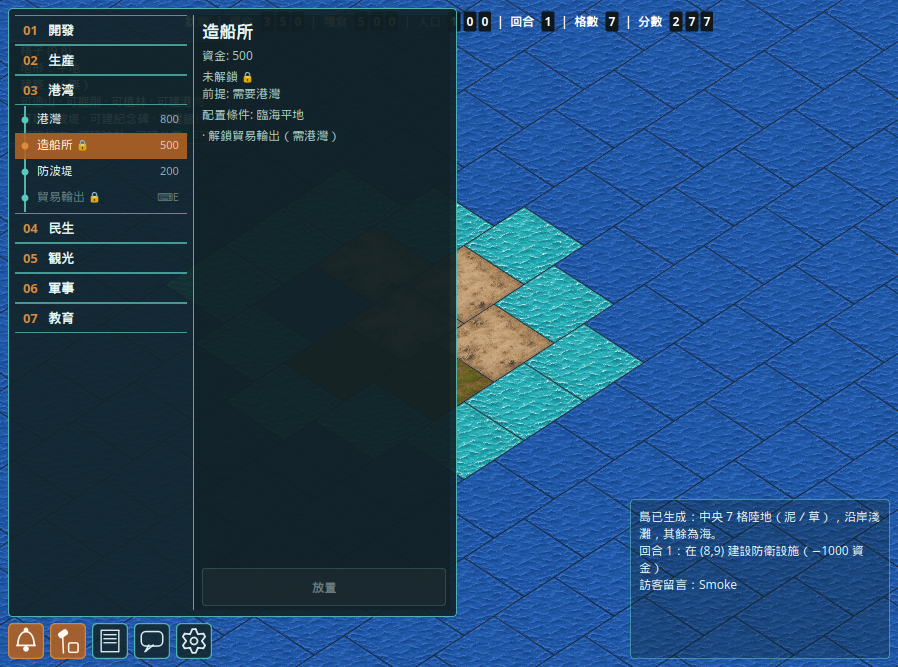
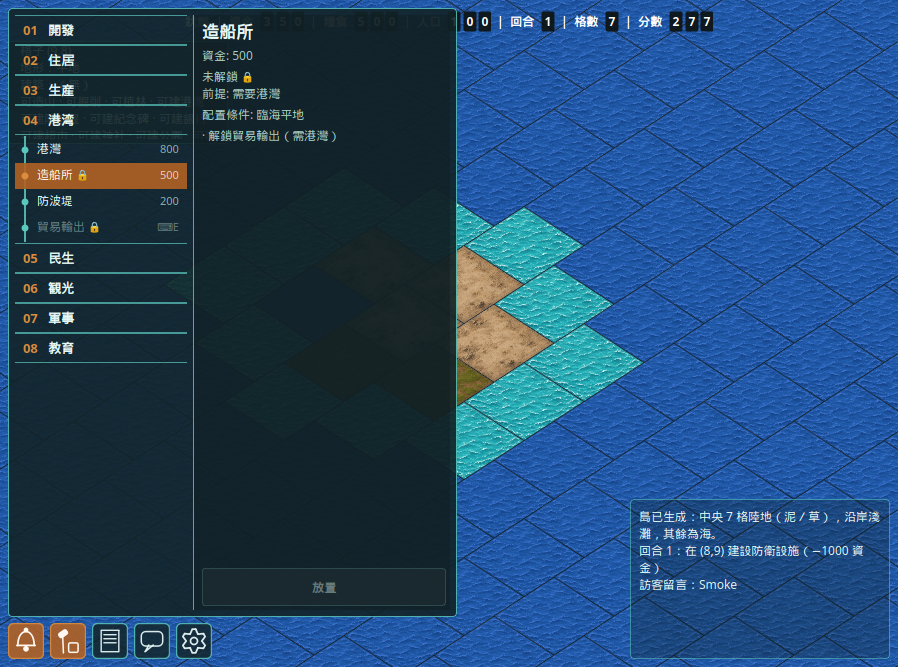
Keep save version 17 for both island migrations.
Village, town, and city stay buildings, and 溫泉村 stays a locked row in the housing catalog. Loading still rewrites old settlement terrain and fills player_name and created_at.

Changed region(s): [[0.0, 0.06, 0.2183, 0.3898], [0.0312, 0.4198, 0.0935, 0.5397]]

diff --git a/hakoniwa/build_tree.py b/hakoniwa/build_tree.py
@@ -28,6 +28,10 @@ try:
     from .model import SETTLEMENT_BUILDINGS  # type: ignore
 except ImportError:  # pragma: no cover — older tip keeps settlements as terrain
     SETTLEMENT_BUILDINGS = frozenset()  # type: ignore
+try:
+    from .model import HARD_LOCKED_BUILDINGS  # type: ignore
+except ImportError:  # pragma: no cover
+    HARD_LOCKED_BUILDINGS = frozenset()  # type: ignore
 
 # Action keys hard-locked until a facility exists (already in game rules).
 ACTION_UNLOCK_PREREQS: Dict[str, Tuple[str, str]] = {
@@ -64,6 +68,7 @@ PLACEMENT_BLURBS: Dict[str, str] = {
     "research_lab": "平地",
     "amusement_park": "平地",
     "power_plant": "平地",
+    "onsen_village": "溫泉山旁的空平地（自然出現）",
 }
 
 # One-line effect blurbs for the detail pane.
@@ -110,6 +115,7 @@ EFFECT_BLURBS: Dict[str, Tuple[str, ...]] = {
     "village": ("住居建築；人口自然演進（非點選建造）",),
     "town": ("住居建築；人口自然演進（非點選建造）",),
     "city": ("住居建築；人口自然演進（非點選建造）",),
+    "onsen_village": ("溫泉山旁的平地自然出現（與村同族，不可直接建設）",),
 }
 
 
@@ -189,9 +195,14 @@ def build_tree_categories() -> Tuple[Tuple[str, Tuple[str, ...]], ...]:
     """Categories for the drawer tree (includes 住居 when applicable)."""
     cats: List[Tuple[str, Tuple[str, ...]]] = list(_BASE_CATEGORIES)
     settlements = settlement_keys_for_tree()
-    if settlements:
+    extra: List[str] = []
+    # 溫泉村 is a hard-locked village-family building, not a population upgrade.
+    if "onsen_village" in BUILDINGS and "onsen_village" not in settlements:
+        extra.append("onsen_village")
+    residence = settlements + tuple(extra)
+    if residence:
         # Insert after 開發 (catalog §2.2 住居).
-        cats.insert(1, ("住居", settlements))
+        cats.insert(1, ("住居", residence))
     return tuple(cats)
 
 
@@ -216,6 +227,9 @@ def unlock_met(state: IslandState, kind: str) -> Tuple[bool, str]:
     Returns (met, reason). Reason empty when met; otherwise the lock tip.
     Placement terrain is *not* an unlock — handled separately.
     """
+    # Hard-locked catalog rows (溫泉村): visible, never activatable.
+    if kind in HARD_LOCKED_BUILDINGS:
+        return False, "只能在溫泉山旁的平地自然出現"
     # Non-placeable settlements: always "browse only", never activatable.
     if kind in settlement_keys_for_tree():
         return False, "住居由人口演進生成（不可點選建造）"

diff --git a/hakoniwa/smoke_test.py b/hakoniwa/smoke_test.py
@@ -3099,7 +3099,13 @@ def test_dialog_import_offscreen():
     assert LIST_ROW_ANIM_MS == 500
     # Number on every category row (01…).
     assert dlg._category_rows["開發"].index == 1
-    assert dlg._category_rows["生産"].index == 2
+    assert "住居" in dlg._category_names
+    assert dlg._category_rows["住居"].index == 2
+    assert dlg._category_rows["生産"].index == 3
+    assert "onsen_village" in dlg._tree_items
+    assert "🔒" in dlg._tree_items["onsen_village"].title
+    assert "village" in dlg._tree_items
+    assert "🔒" in dlg._tree_items["village"].title
     # Children default collapsed.
     for name in dlg._category_names:
         assert dlg.is_category_expanded(name) is False
@@ -3974,7 +3980,6 @@ def test_onsen_mountain_and_village():
         model_mod.SETTLEMENT_SPAWN_CHANCE = old_spawn
     assert plain_island.cell(vi, vj).terrain == "grass"
     assert plain_island.cell(vi, vj).building == "village"
-    assert plain_island.cell(vi, vj).building is None
 
     # Ordinary mountain → 溫泉山. Chance 0 does not roll. Fresh eruptions stay 山.
     plain = next(
@@ -4208,6 +4213,9 @@ def test_oilfield_and_crater_tiles():
     assert state.cell(*sea).terrain == "oilfield"
 
     # Hitting a monster does not leave a crater.
+    state.cell(gi, gj).terrain = "grass"
+    state.cell(gi, gj).building = None
+    state.cell(gi, gj).trees = 0
     mi, mj = grass[0]
     assert state.cell(mi, mj).terrain == "grass"
     assert state.spawn_monster(mi, mj) is not None

diff --git a/hakoniwa/dialog.py b/hakoniwa/dialog.py
@@ -1432,14 +1432,18 @@ class HakoniwaIslandDialog(QDialog):
         shown_cost = cost_for_kind(self.state, key, tool_cost)
         if shown_cost is None:
             cost_lab.setText("費用: 免費／依指令")
-        elif shown_cost == 0 and key in settlement_keys_for_tree():
+        elif shown_cost == 0 and (
+            key in settlement_keys_for_tree() or key in HARD_LOCKED_BUILDINGS
+        ):
             cost_lab.setText("費用: 0（非點選建造）")
         else:
             cost_lab.setText(f"資金: {shown_cost}")
 
         met, lock_reason = unlock_met(self.state, key)
         prereq = unlock_prereq(key)
-        if key in settlement_keys_for_tree():
+        if key in HARD_LOCKED_BUILDINGS:
+            status_lab.setText(f"狀態: 鎖定 🔒\n前提: {lock_reason}")
+        elif key in settlement_keys_for_tree():
             status_lab.setText("狀態: 瀏覽用（人口演進）\n前提: 不可點選建造")
         elif met:
             prereq_txt = "無" if prereq is None else display_label(prereq[0].split("|")[0])
@@ -1458,7 +1462,7 @@ class HakoniwaIslandDialog(QDialog):
         # Action label: 放置 for buildings, otherwise keep tool verb.
         if key in PLACEABLE_BUILDINGS:
             place_btn.setText("放置")
-        elif key in settlement_keys_for_tree():
+        elif key in settlement_keys_for_tree() or key in HARD_LOCKED_BUILDINGS:
             place_btn.setText("不可建造")
         else:
             place_btn.setText("執行")

diff --git a/hakoniwa/model.py b/hakoniwa/model.py
@@ -453,6 +453,9 @@ Coord = Tuple[int, int]
 LAND_TERRAINS = frozenset(k for k, v in TERRAIN.items() if v["land"])
 SETTLEMENT_BUILDINGS = frozenset({"village", "town", "city"})
 BUILDABLE = frozenset({"grass"})  # 平地 only（村／町／都市請先整地；採掘場除外）
+# 17 covers both migrations that previously each claimed this number:
+# legacy terrain village/town/city → grass + building (Cell.from_dict), and
+# island profile player_name / created_at (missing values default on load).
 SAVE_VERSION = 17
 
 
